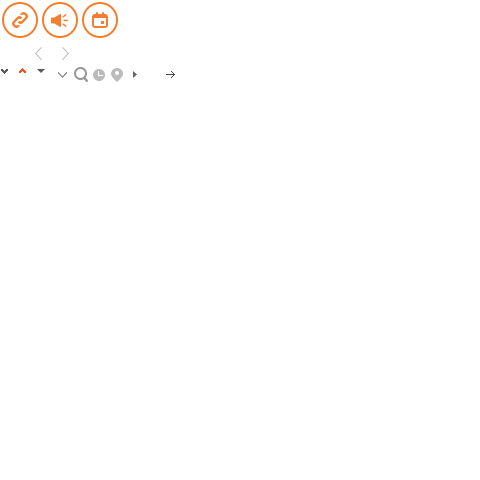
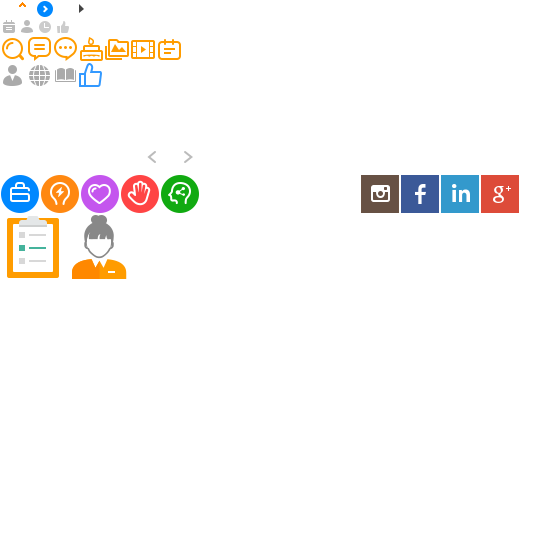
update design

Changed region(s): [[0.0, 0.2812, 0.375, 0.5312], [0.0, 0.0, 0.3438, 0.1875], [0.6562, 0.3125, 0.9688, 0.4062]]

diff --git a/webparts/Panels/style.less b/webparts/Panels/style.less
@@ -1,39 +1,44 @@
 @import "../../stylelibrary/webpartcommon";
 
 .acs-panelframe{
-    height: 100px;
-    padding:30px;
-    margin-bottom: 10px;
-    border: 1px solid #f57d30;
-    background: -webkit-linear-gradient(left, #FFEBCD , #FFF); /* Safari 5.1 - 6.0 */
-    background: -o-linear-gradient(right, #FFEBCD, #FFF); /* Opera 11.1 - 12.0 */
-    background: -moz-linear-gradient(right, #FFEBCD, #FFF); /* Firefox 3.6 - 15 */
-    background: linear-gradient(to right, #FFEBCD , #FFF); /* 标准的语法（必须放在最后） */
+    width: 310px;
+    height: 120px;
+    line-height: 120px;
+    border: 1px solid #ff9c00;
+    padding:0 20px;
+    margin-bottom: 15px;
+    background-image: -webkit-linear-gradient(0deg, rgb(255,247,226) 0%, rgb(255,255,255) 100%);
+    background-image: -ms-linear-gradient(0deg, rgb(255,247,226) 0%, rgb(255,255,255) 100%);
+    background-image: -moz-linear-gradient(0deg, rgb(255,247,226) 0%, rgb(255,255,255) 100%);
+    background: linear-gradient(0deg, rgb(255,247,226) 0%, rgb(255,255,255) 100%); /* 标准的语法（必须放在最后） */
     cursor: pointer;
 
     .acs-panelframe-title{
+        font-size: 16px;
+        font-weight: bold;
+        font-family: "Open Sans";
+        color: #333;
         float: left;
-        font-size: 20px;
-        margin-top: 30px;
 
         .acs-panelframe-alert{
             margin-left: 10px;
-            padding: 5px;
-            width: 22px;
-            height: 22px;
-            background: red;
-            border-radius: 5px;
+            width: 30px;
+            height: 30px;
+            line-height: 30px;
+            border-radius: 4px;
+            background-color: #ff4444;
             color: #fff;
             display: inline-block;
             text-align: center;
+            vertical-align: middle;
         }
     }
 
     .acs-panelframe-ico{
         float: right;
-        margin-top: 25px;
-        width: 40px;
-        height: 40px;
+        margin-top: 27px;
+        width: 66px;
+        height: 66px;
         background-image: url(../../dist/common/images/image.png);
     }
 }

diff --git a/components/Common/panelFrame.jsx b/components/Common/panelFrame.jsx
@@ -8,7 +8,7 @@ export default class PanelFrame extends React.Component{
     }
 
     render(){
-        let {title, msgCount, iconClass, url} = this.props;
+        let {title, msgCount, iconPosition, url} = this.props;
 
         return(
             <div className="acs-panelframe" onClick={this.gotoDetails.bind(this,this.props.url)}>
@@ -16,7 +16,7 @@ export default class PanelFrame extends React.Component{
                     <b>{this.props.title}</b>
                     {this.props.msgCount>0?<div className="acs-panelframe-alert">{this.props.msgCount}</div>:null}
                 </div>
-                <div className="acs-panelframe-ico"></div>
+                <div className="acs-panelframe-ico" style={{backgroundPosition:this.props.iconPosition}}></div>
             </div>
         );
     }

diff --git a/webparts/Panels/index.jsx b/webparts/Panels/index.jsx
@@ -6,12 +6,12 @@ function panelRender(config) {
     let panels = [{
         title: 'My Task',
         msgCount: 3,
-        iconClass: 'acs-header-icon',
+        iconPosition: '0 -214px',
         url: 'www.baidu.com'
     }, {
         title: 'HR Connect',
         msgCount: 0,
-        iconClass: 'acs-header-icon',
+        iconPosition: '-66px -214px',
         url: 'www.baidu.com'
     }];
 
@@ -20,7 +20,7 @@ function panelRender(config) {
             return (<PanelFrame
                 title={panel.title}
                 msgCount={panel.msgCount}
-                iconClass={panel.iconClass}
+                iconPosition={panel.iconPosition}
                 url={panel.url}>
             </PanelFrame>)
         });

diff --git a/webparts/Message/style.less b/webparts/Message/style.less
@@ -3,26 +3,28 @@
 
 .acs-message{
     margin-top: 10px;
-    background: #f3f3f3;
+    background-color: #f2f4f6;
     text-align: center;
-    padding: 20px 0;
+    padding: 15px;
 
     img{
-        width: 70%;
+        width: 200px;
     }
 
     .acs-message-title{
         margin-top: 10px;
-        text-transform: uppercase;
+        font-size: 14px;
         font-weight: bold;
+        color: #333;
     }
 
     .acs-message-date{
-        color: #bbb;
+        color: #666;
         margin: 10px 0;
     }
 
     .acs-message-content{
+        color: #333;
         text-transform: uppercase;
     }
 }
